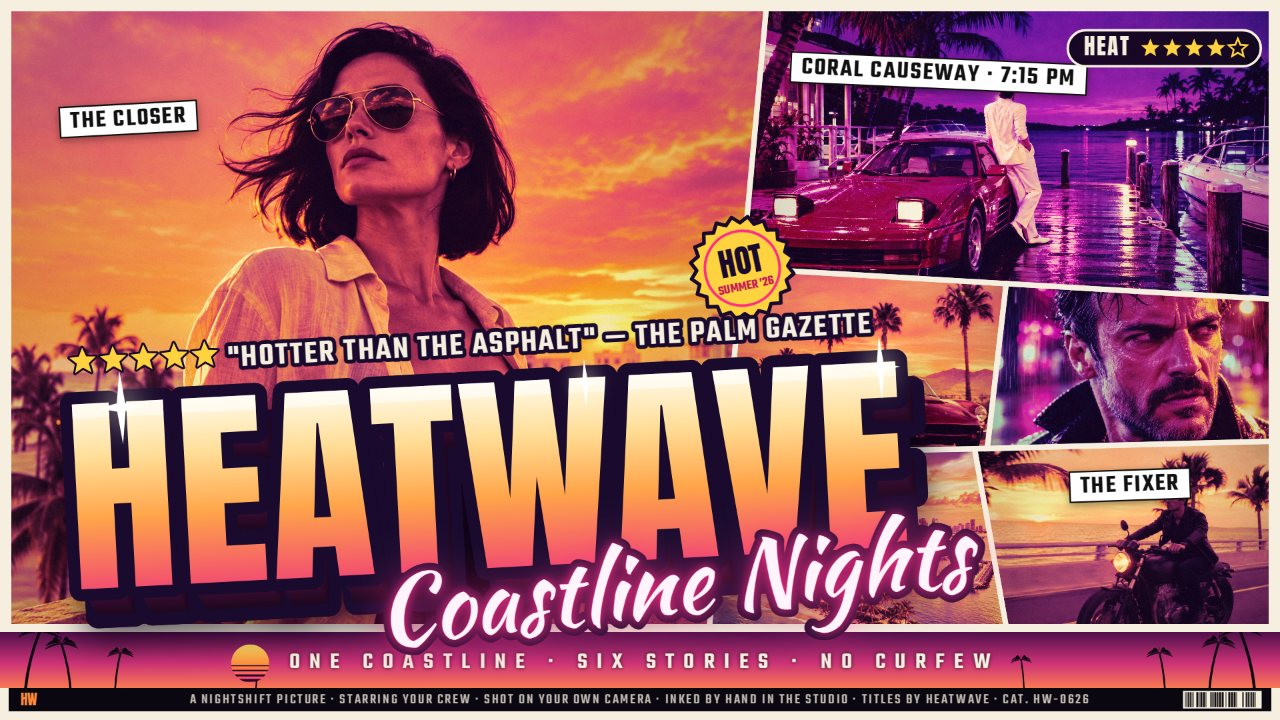
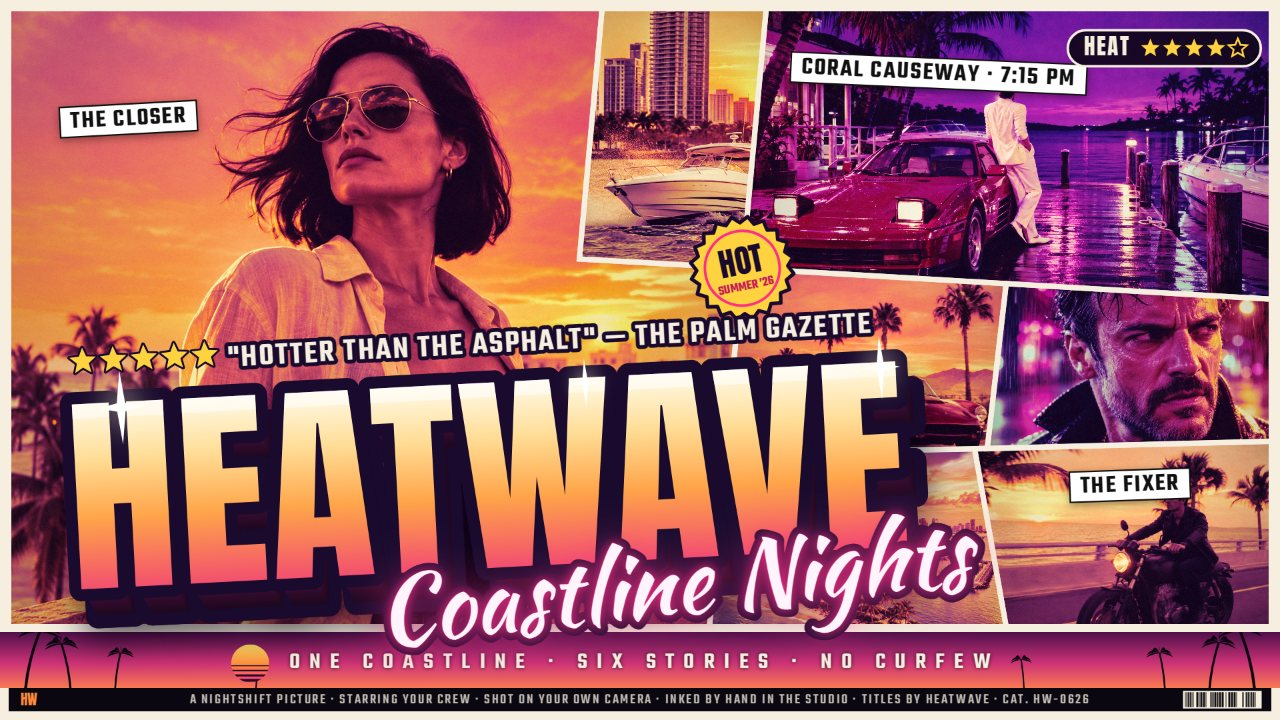
Step 1 (M7): one more beat on shot 1 - Key Art Slash Plus (shot 1 only, not in the picker): a seventh slanted panel cut from the hero's empty sky at top-middle, between the hero and the neon marina, clear of the title, script, quote, seal and pill; hero keeps its bounding box and crop and stays the 

diff --git a/app/src/dev/shot-scenes.js b/app/src/dev/shot-scenes.js
@@ -8,16 +8,18 @@ const SCENES = {
   // Shot 1: 1920 x 1080, Key Art Slash, Sunset Strip, Poster Ink off (ink: 0; crisp at judge size), six distinct photos: the rooftop hero
   // (sunglasses, looking out of frame, sunset sky), the neon marina night in the second-largest panel, a sunset sky
   // (under the seal and the title's end), the neon close-up in the free middle-right panel, the marina skyline under
-  // the title, and the motorbike cropped so the rider sits right of the third tag and above the band.
+  // the title, the motorbike cropped so the rider sits right of the third tag and above the band, and (Key Art Slash
+  // Plus, M7) the daytime speedboat on blue water in the new top-middle panel between the hero and the marina.
   'cover-keyart': {
-    layoutId: 'keyArtSlash', gradeId: 'sunsetStrip', size: [1920, 1080], ink: 0,
+    layoutId: 'keyArtSlashPlus', gradeId: 'sunsetStrip', size: [1920, 1080], ink: 0,
     caption: { title: 'HEATWAVE', subtitle: 'Coastline Nights', tagline: 'ONE COASTLINE · SIX STORIES · NO CURFEW' },
-    photos: ['hero-rooftop', 'marina-night', 'coupe-desert', 'neon-closeup', 'marina-skyline', 'moto-causeway'],
+    photos: ['hero-rooftop', 'marina-night', 'coupe-desert', 'neon-closeup', 'marina-skyline', 'moto-causeway', 'speedboat'],
     panels: [
       { photo: 0, zoom: 1, fx: 0.4, fy: 0.3 },
       { photo: 1, zoom: 1, fx: 0.5, fy: 0.5 },
       { photo: 2, zoom: 1.1, fx: 0.5, fy: 0.36 }, { photo: 3, zoom: 1.05, fx: 0.57, fy: 0.4 },
       { photo: 4, zoom: 1.1, fx: 0.5, fy: 0.45 }, { photo: 5, zoom: 1.25, fx: 0.55, fy: 0.5 },
+      { photo: 6, zoom: 1.2, fx: 0.5, fy: 0.55 },
     ],
   },
   // Shot 3: 1080 x 1350, Key Art Slash in Neon Night: the couple on the pier as the hero, the fisher and the neon man

diff --git a/main.ts b/main.ts
@@ -5,9 +5,10 @@
 // This program hands the app in: it copies app/ and screenshots/ to /output and writes /output/dossier.json with the
 // vendored make.fun library. The logic below is the kit starter's, unchanged and deterministic (same input bytes,
 // same dossier bytes).
-// Screenshots (M5): 1-cover-1920.jpg (Key Art Slash, Sunset Strip, no Poster Ink: crisp photo grade with deep
-// shadows, Sky glow on, a rooftop hero in sunglasses looking out of frame under a sunset sky, a neon marina and a
-// neon close-up for cool contrast, six distinct photos, title over the art), 2-editor.jpg (the editor with Key Art Slash, the Poster extras toggles and tag fields,
+// Screenshots (M7): 1-cover-1920.jpg (Key Art Slash Plus, Sunset Strip, no Poster Ink: crisp photo grade with deep
+// shadows, Sky glow on, a rooftop hero in sunglasses looking out of frame under a sunset sky, a speedboat by the
+// towers in a new top-middle panel, a neon marina and a neon close-up for cool contrast, the moto, seven distinct
+// photos, title over the art), 2-editor.jpg (the editor with Key Art Slash, the Poster extras toggles and tag fields,
 // undo/redo), 3-cover-1080x1350.jpg (Key Art Slash, Neon Night, six photos), 4-cover-1080.jpg (Key Art Slash from
 // ONE photo in five crops, Golden Hour); exports 1080x1080, 1080x1350, 1920x1080 PNG.
 //

diff --git a/app/src/engine/layouts.js b/app/src/engine/layouts.js
@@ -155,6 +155,22 @@ export const LAYOUTS = {
   },
 };
 
+// Key Art Slash Plus (shot 1 only; not in the picker): Key Art Slash with a seventh slanted panel cut from the hero's
+// empty sky at top-middle, between the hero and the big top-right panel, clear of the title, quote, seal and pill.
+// The hero keeps the same bounding box (same crop), so the hero stays the biggest image; panels 1-5 are unchanged.
+LAYOUTS.keyArtSlashPlus = {
+  ...LAYOUTS.keyArtSlash,
+  label: 'Key Art Slash Plus',
+  land: {
+    ...LAYOUTS.keyArtSlash.land,
+    polys: [
+      [[0, 0], [0.47, 0], [0.452, 0.405], [0.581, 0.42], [0.555, 1], [0, 1]],
+      ...LAYOUTS.keyArtSlash.land.polys.slice(1),
+      [[0.47, 0], [0.6, 0], [0.581, 0.42], [0.452, 0.405]],
+    ],
+  },
+};
+
 export const LAYOUT_ORDER = ['keyArtSlash', 'keyArtNine','heroAndSix', 'heroFour', 'tiltedSnapshots', 'stripFive', 'gridFour', 'fullBleedInset'];
 
 export const COVER_SIZES = [
